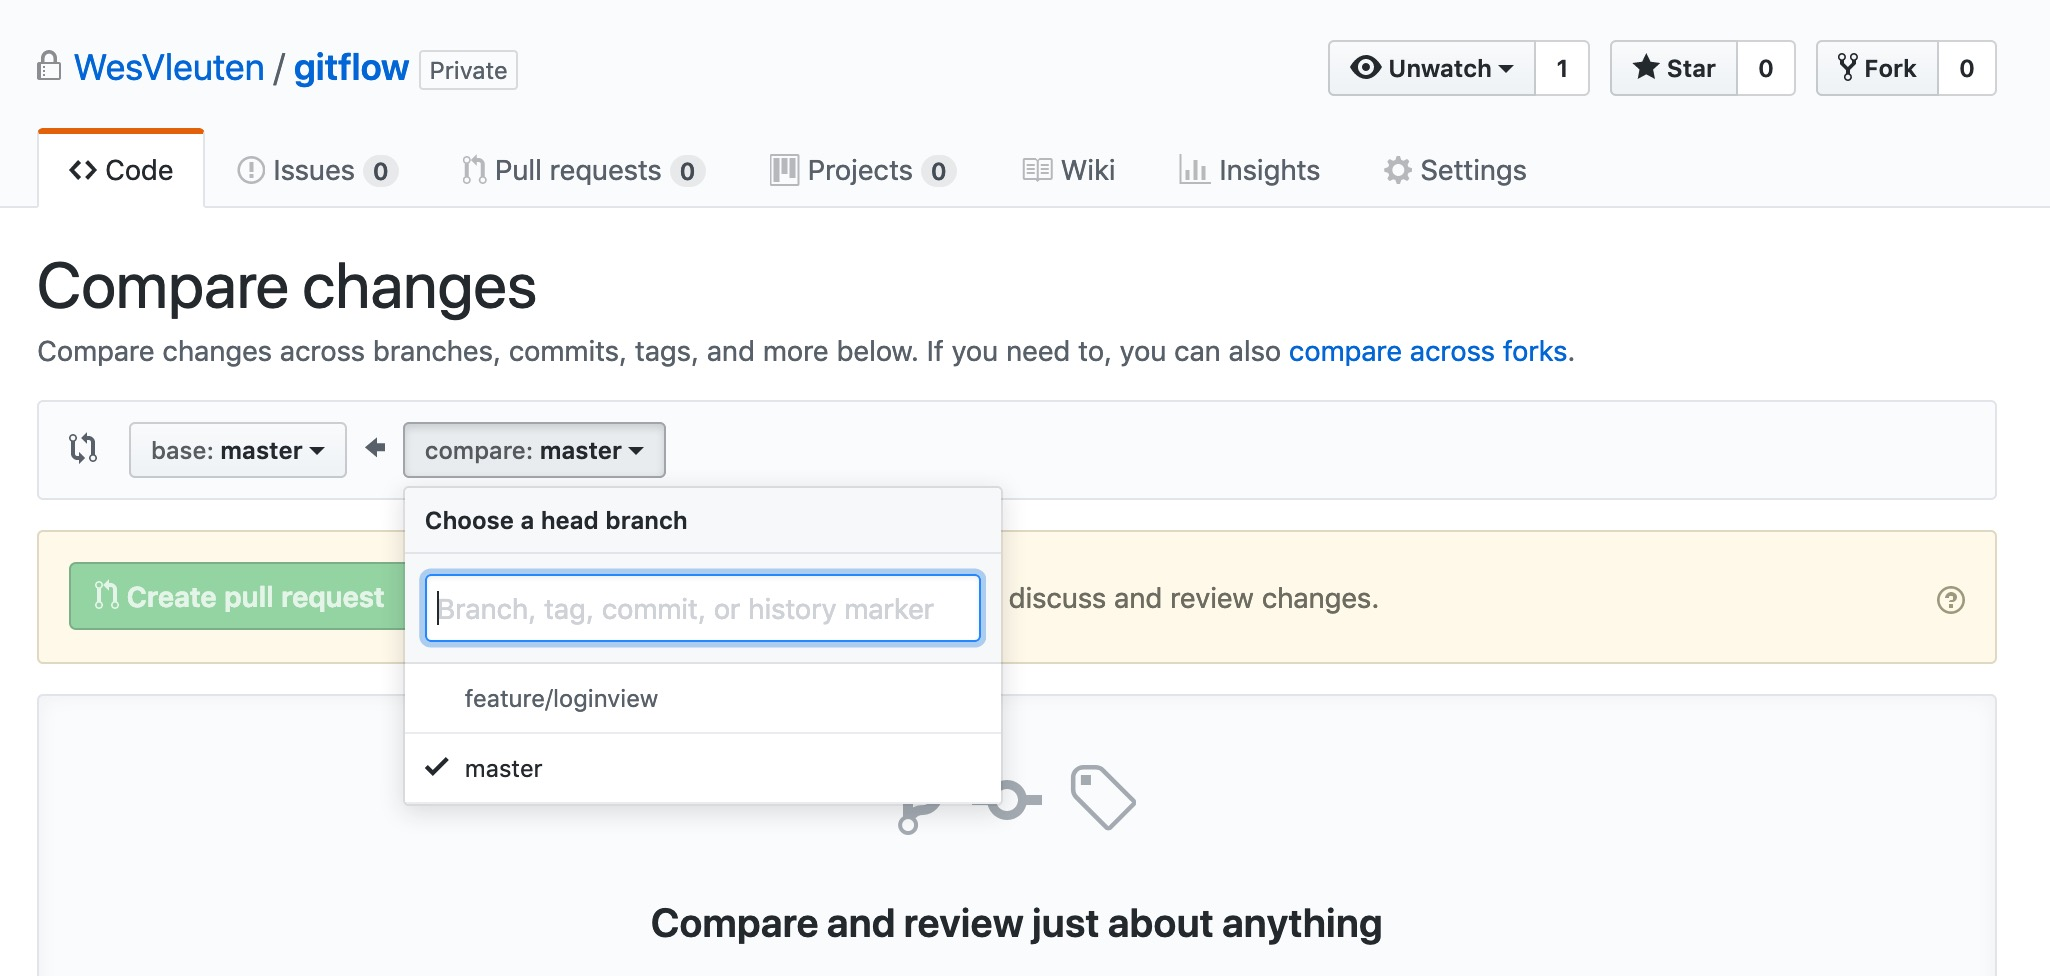
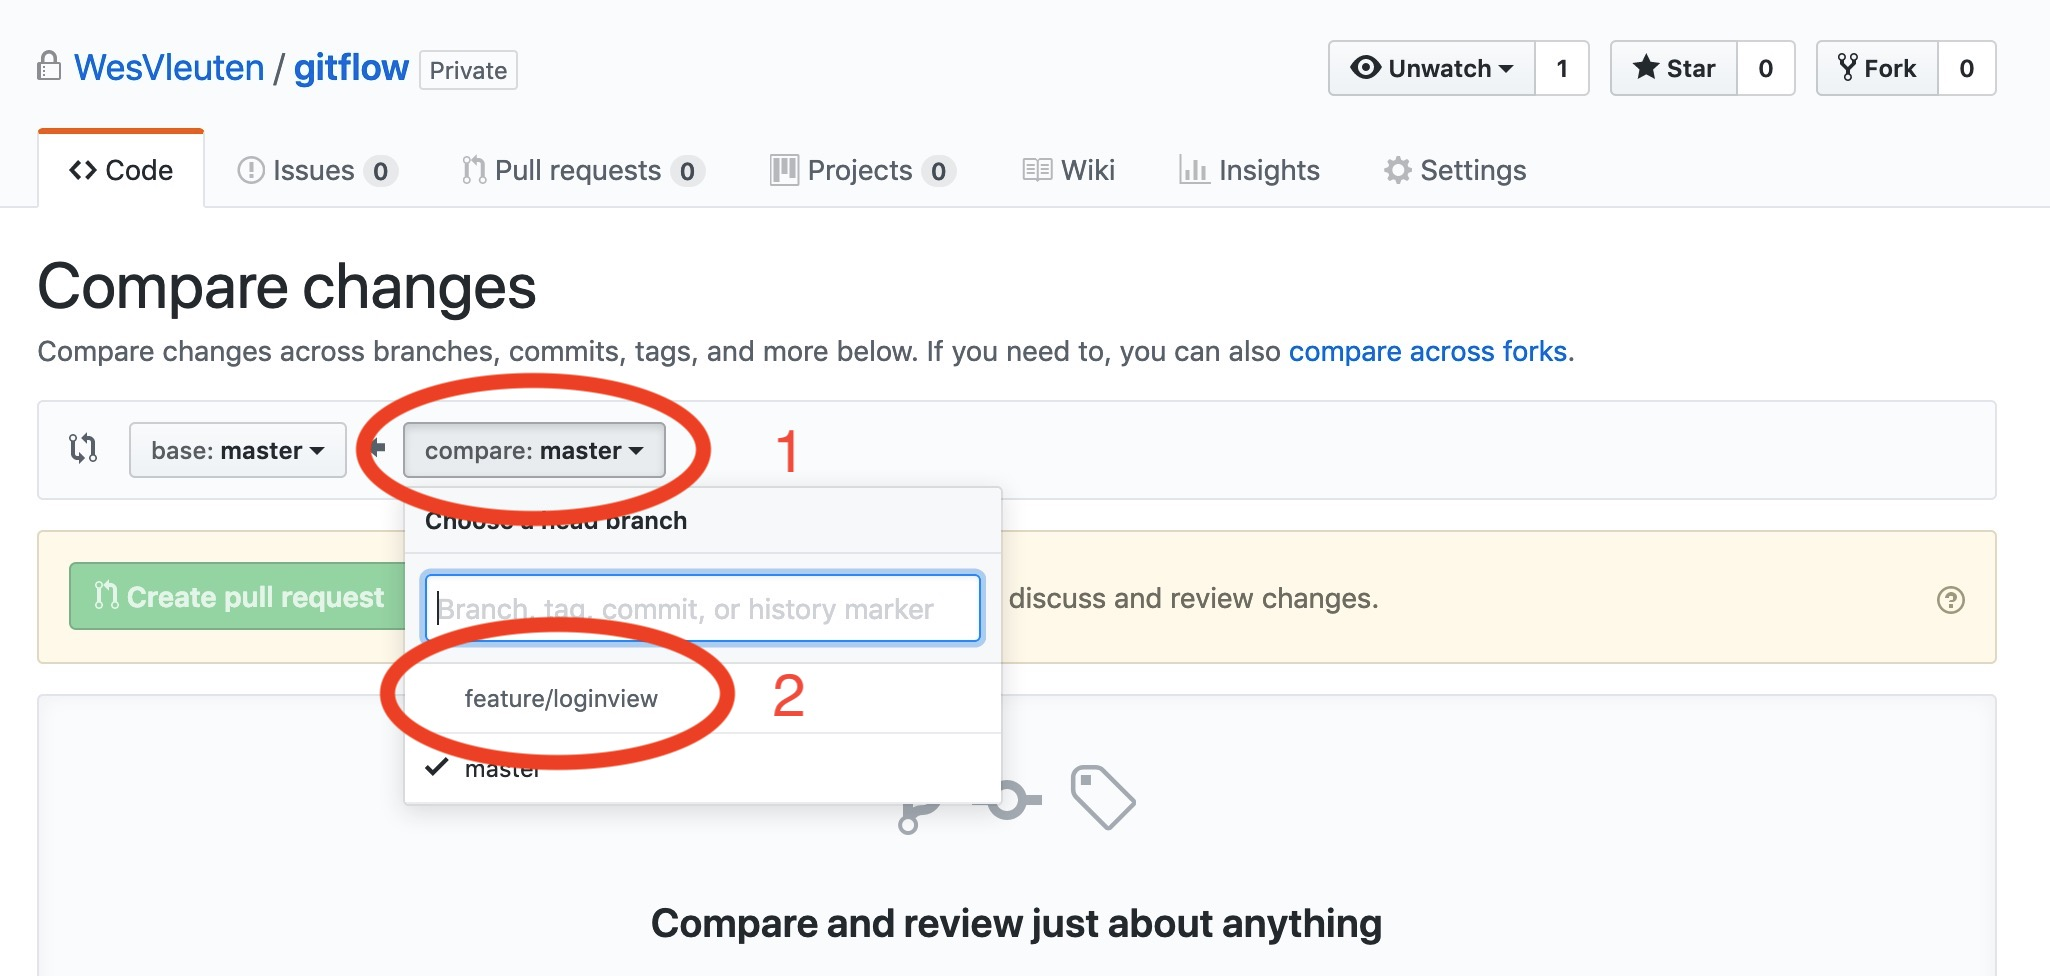
Added compare select to pull requests

diff --git a/README.md b/README.md
@@ -57,4 +57,9 @@ Click on `New pull request` this will redirect you to a new screen.
 
 ![Pull request screenshot](screenshot/pulls_list.jpg)
 
-On that new screen select your branch in the compare field.
+On that new screen click on compare and select **YOUR** branch in the compare field.
+
+![Pull request screenshot](screenshot/pulls_compareselect.jpg)
+
+Now press the green `Create pull request` button and your pull request is ready for review!
+
